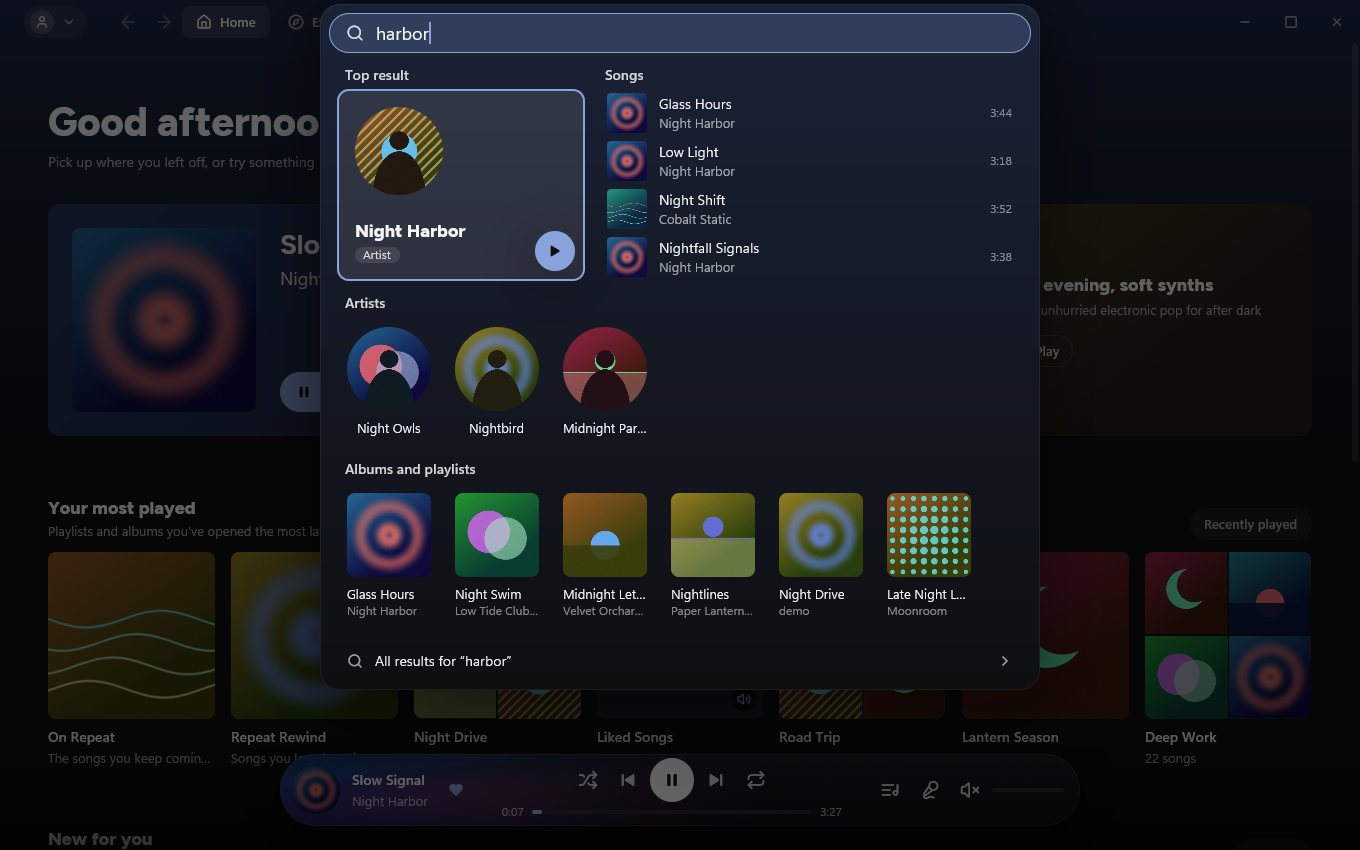
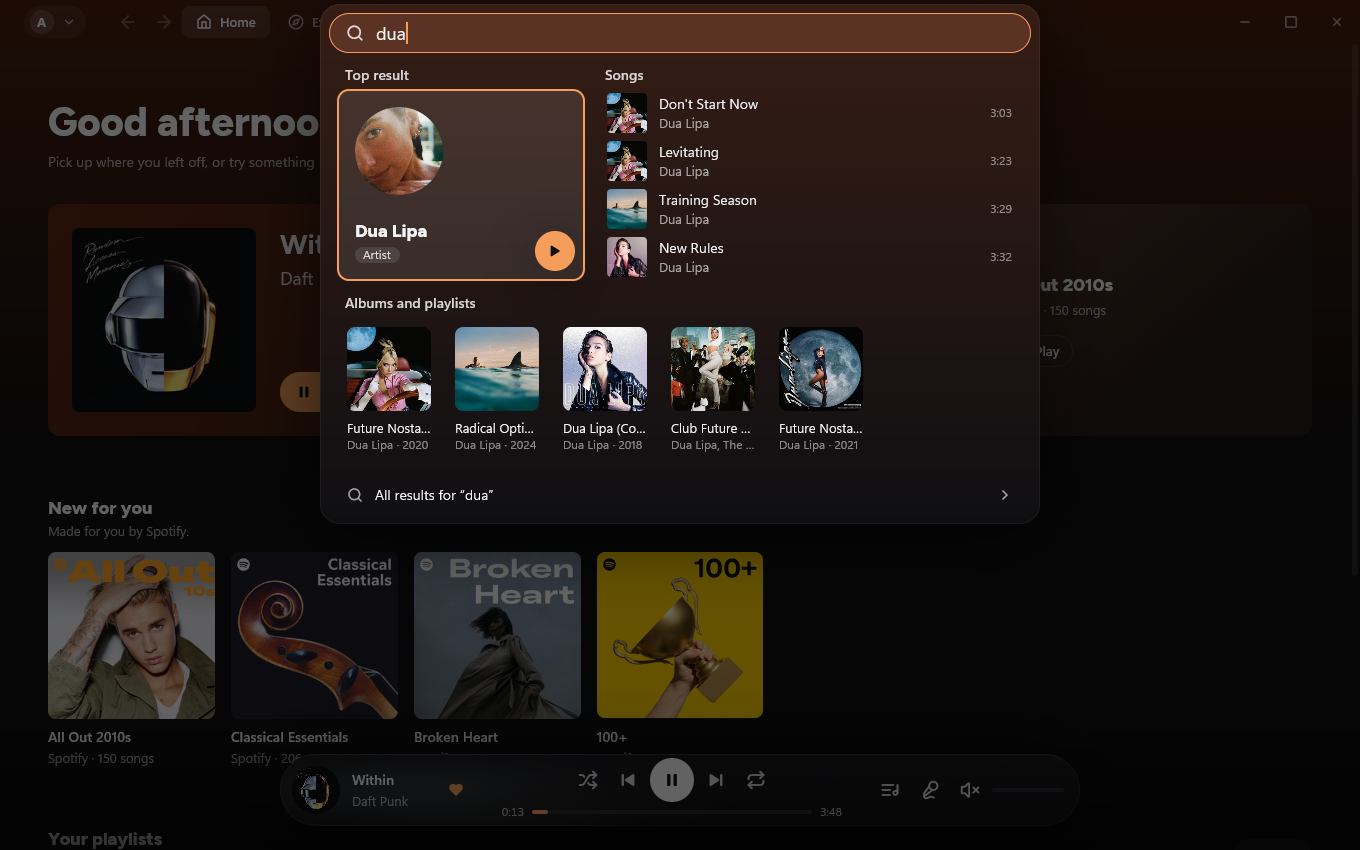
README: yeni arama yüzeyiyle görüntüler ve demo

diff --git a/README.md b/README.md
@@ -35,9 +35,9 @@ The screenshots show Spotify's own public playlists and albums with a sample pro
 | ![Equalizer](docs/screenshots/equalizer.png) | ![Library tools](docs/screenshots/tools.png) |
 | Equalizer and headphone profile | Duplicate finder in the library tools |
 | ![Album](docs/screenshots/album.png) | ![Search](docs/screenshots/palette.png) |
-| An album page | Search (Ctrl+K) |
-| ![Now playing](docs/screenshots/now-playing.png) | |
-| Now playing panel | |
+| An album page | Search results (Ctrl+K) |
+| ![Now playing](docs/screenshots/now-playing.png) | ![Search suggestions](docs/screenshots/search.png) |
+| Now playing panel | Search suggestions before you type |
 
 ## Install
 
